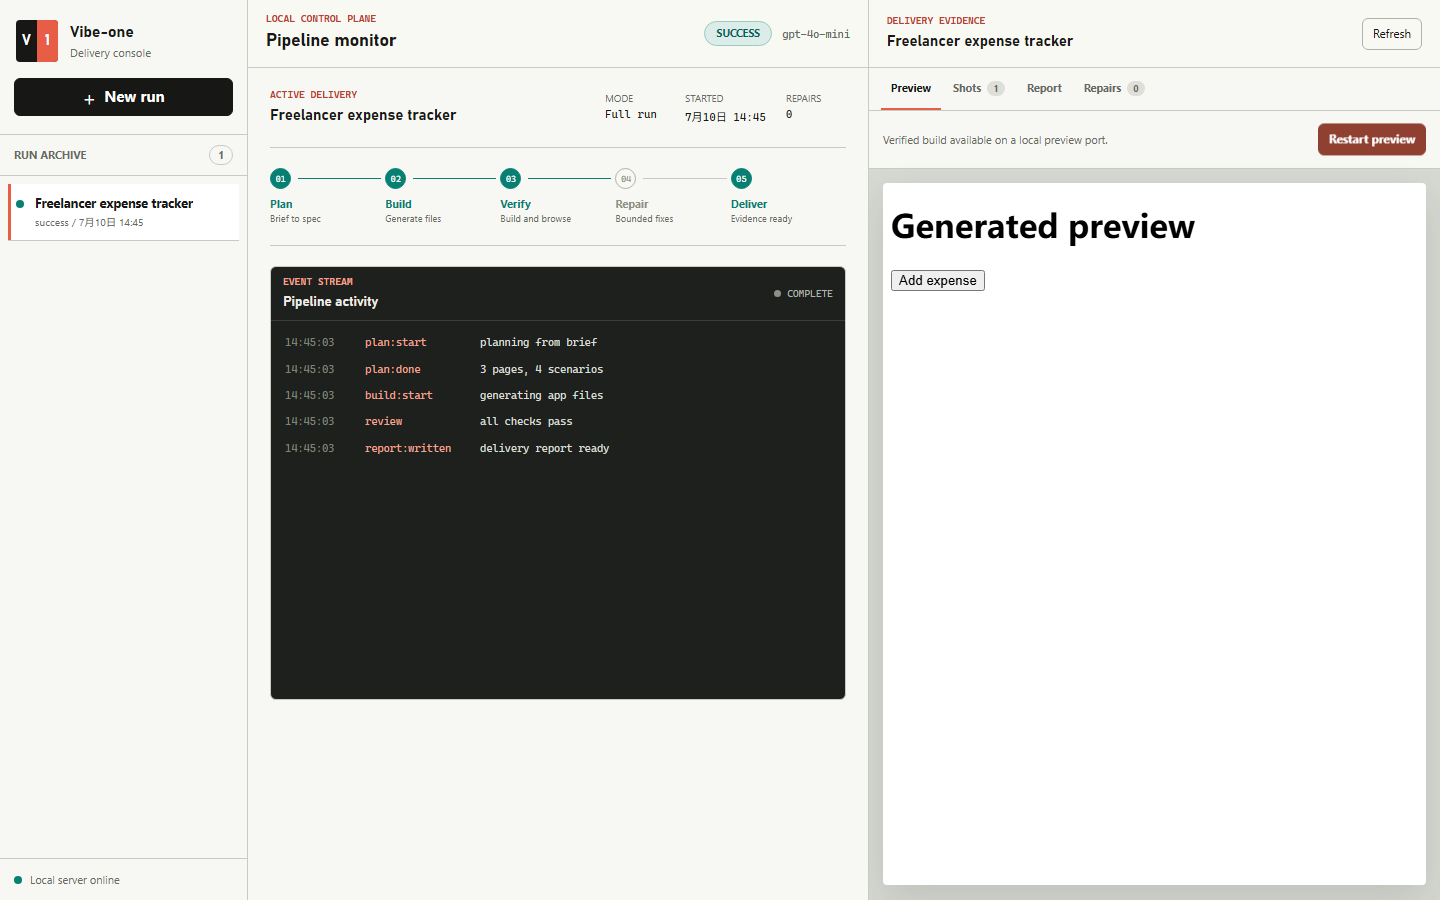
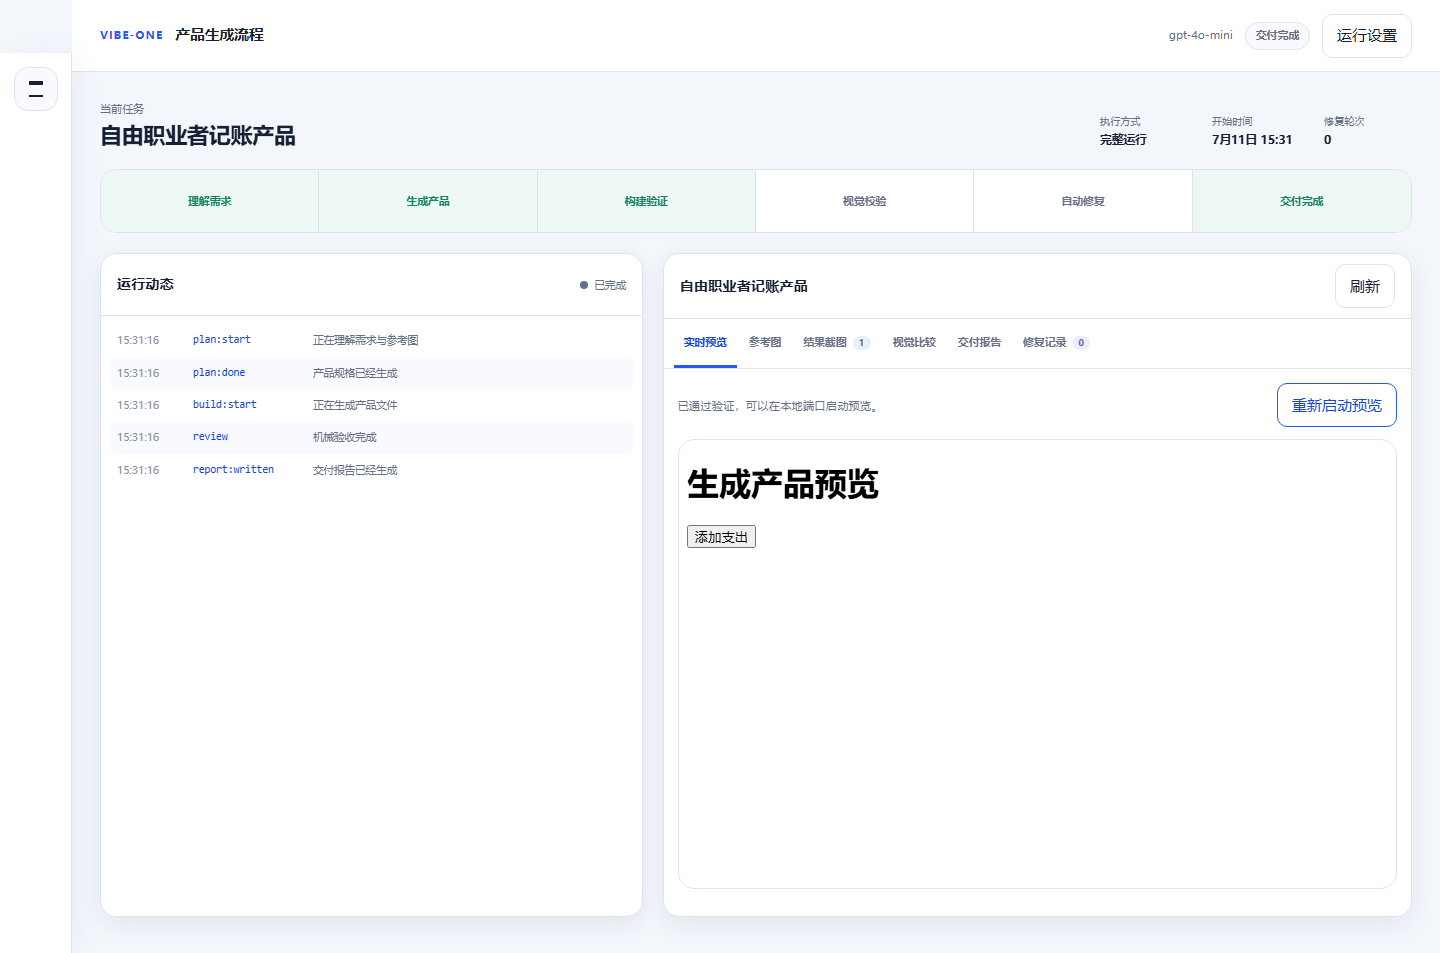
docs: present the Product Lab visual workflow

diff --git a/test/console-e2e.test.js b/test/console-e2e.test.js
@@ -108,7 +108,7 @@ test('browser console submits a reference image and renders live evidence', { sk
 
   const previewServer = http.createServer((_req, res) => {
     res.writeHead(200, { 'content-type': 'text/html; charset=utf-8' });
-    res.end('<!doctype html><html><body><main><h1>Generated preview</h1><button>Add expense</button></main></body></html>');
+    res.end('<!doctype html><html><body><main><h1>生成产品预览</h1><button>添加支出</button></main></body></html>');
   });
   await new Promise((resolve) => previewServer.listen(0, '127.0.0.1', resolve));
   const previewAddress = previewServer.address();
@@ -163,6 +163,7 @@ test('browser console submits a reference image and renders live evidence', { sk
     await page.getByRole('button', { name: '运行设置' }).click({ timeout: 1_000 });
     await page.getByLabel('会话 API Key').fill('stub-secret');
     await page.getByRole('button', { name: '完成' }).click();
+    await page.getByLabel('任务名称').fill('自由职业者记账产品');
     await page.setInputFiles('#reference-input', {
       name: 'home.png',
       mimeType: 'image/png',
@@ -191,7 +192,7 @@ test('browser console submits a reference image and renders live evidence', { sk
     await page.locator('#report-content').filter({ hasText: 'Delivery Report' }).waitFor();
     await page.getByRole('tab', { name: '实时预览' }).click();
     await page.getByRole('button', { name: '启动预览' }).click();
-    await page.frameLocator('#preview-frame').getByText('Generated preview').waitFor();
+    await page.frameLocator('#preview-frame').getByText('生成产品预览').waitFor();
 
     const bodyText = await page.locator('body').innerText();
     assert.equal(bodyText.includes('stub-secret'), false);
@@ -207,6 +208,9 @@ test('browser console submits a reference image and renders live evidence', { sk
     assert.equal(await mobile.evaluate(() => document.documentElement.scrollWidth <= window.innerWidth), true);
     assert.equal(await mobile.locator('#new-run').isVisible(), true);
     assert.equal(await mobile.getByRole('tab', { name: '实时预览' }).isVisible(), true);
+    await mobile.getByRole('button', { name: '收起历史' }).click();
+    await mobile.getByRole('button', { name: '启动预览' }).click();
+    await mobile.frameLocator('#preview-frame').getByText('生成产品预览').waitFor();
     await mobile.screenshot({ path: path.join(artifacts, 'console-mobile.png'), fullPage: true });
   } finally {
     await browser.close();

diff --git a/FRAMEWORK.md b/FRAMEWORK.md
@@ -21,7 +21,7 @@ True hands-off automation requires programmatic model calls. A manual Codex or C
 Minimum viable API setup:
 
 - One OpenAI-compatible chat endpoint.
-- Optional vision-capable model for screenshot input.
+- A vision-capable OpenAI-compatible model when reference screenshots are supplied.
 - Local filesystem write operations controlled by the orchestrator.
 - Local command execution for install, build, test, and screenshot capture.
 - Token and cost tracking from API usage metadata when available.
@@ -46,7 +46,7 @@ The first version should support a single frontend stack and a narrow app type.
 Recommended MVP:
 
 - Target stack: React + Vite or Expo Web.
-- Input type: Markdown product brief first; screenshots second.
+- Input type: text-only, screenshot-only, or combined text and reference screenshots.
 - Output type: static or mock-data mobile-style app.
 - Verification: `npm install`, `npm run build`, local preview, Playwright screenshot.
 - Repair loop: at most two automated fix attempts per run.
@@ -70,7 +70,7 @@ Accepts target material:
 - `input/screenshots/`: optional screenshots for visual guidance.
 - `input/constraints.json`: stack choice, target viewport, max repair rounds, and model config.
 
-The first milestone should work from `brief.md` only. Screenshot understanding can be added after the pipeline is stable.
+Reference inputs accept PNG/JPEG/WebP, up to 4 files, 6 MiB each and 18 MiB total. The console additionally bounds the complete request body to 26 MiB. References are normalized into sanitized files plus metadata before planning.
 
 ### 2. Planner
 
@@ -82,6 +82,7 @@ Reads the input and generates:
 - Data model.
 - Interaction list.
 - Acceptance criteria.
+- Visual direction and explicit page-to-reference mapping when images are present.
 
 Output:
 
@@ -128,20 +129,17 @@ Output:
 
 Checks whether the generated app satisfies the target.
 
-MVP checks:
+Implemented checks:
 
 - Build passes.
 - Preview server starts.
 - Screenshot is non-empty.
 - Expected page text exists.
 - Expected number of pages/routes exists.
+- Reference/output comparison using local SSIM-derived structure and RGB color-histogram scores.
+- A configurable visual threshold (`0.62` by default) with per-page, per-round evidence.
 
-Later checks:
-
-- Screenshot comparison against target.
-- Layout similarity scoring.
-- Color and typography checks.
-- Accessibility checks.
+The threshold is a coarse visual-consistency gate, not pixel-perfect cloning. The model supplies the visual spec and mapping; it does not grade its own output.
 
 ### 6. Fixer
 
@@ -153,6 +151,7 @@ Repair loop rules:
 - Record each failure and patch attempt.
 - Stop instead of looping forever.
 - Do not claim success unless verification passes.
+- Feed failed visual comparison evidence to the visual fixer and retain every bounded repair round.
 
 ### 7. Reporter
 
@@ -279,7 +278,7 @@ The interview bar above is satisfied for the text-brief scope:
 - Re-run verification.
 - Record all attempts.
 
-### Phase 3 - Screenshot Input
+### Phase 3 - Screenshot Input (implemented)
 
 - Accept reference screenshots.
 - Ask vision model or preprocessing step to extract UI structure.
@@ -302,4 +301,4 @@ The interview bar above is satisfied for the text-brief scope:
 
 ## Current Decision
 
-The narrow API-backed text-brief pipeline and bounded repair loop are complete. Keep them as the verified baseline; reference screenshot input and coarse visual comparison are the next Phase 3 milestone.
+The Product Lab baseline supports text-only, screenshot-only, and combined inputs. Multimodal planning produces a structured product/visual spec; local deterministic comparison enforces coarse structure/color consistency; functional and visual repair remain bounded and auditable. Credentials are session-only, public APIs/artifacts omit secrets and base64 payloads, and private absolute input paths are never exposed.

diff --git a/docs/architecture.md b/docs/architecture.md
@@ -3,10 +3,10 @@
 ## Data flow
 
 ```text
-input/brief.md + constraints.json
+brief + normalized references + constraints
         |
         v
-   [Planner] --model--> spec JSON --> SPEC.generated.md / PLAN.generated.md
+   [Planner] --multimodal model--> product + visual spec --> SPEC.generated.md / PLAN.generated.md
         |
         v
    [Builder] --model--> delimited file blocks --> runs/<id>/app/   (safeJoin path jail)
@@ -15,11 +15,11 @@ input/brief.md + constraints.json
    [Runner]  npm install -> npm run build -> vite preview -> Playwright screenshots
         |
         v
-   [Reviewer] mechanical checks (exit codes, shot bytes, page text, page count)
+   [Reviewer] mechanical checks + local SSIM/color-histogram visual gate
         |                                   |
         | pass                              | fail (round < maxRepairRounds)
         v                                   v
-   [Reporter]                          [Fixer] --model--> patched files --> back to Runner
+   [Reporter]                  [functional / visual fixer] --model--> patched files --> back to Runner
 ```
 
 ## Module contracts
@@ -28,11 +28,13 @@ input/brief.md + constraints.json
 | --- | --- | --- | --- |
 | `core/config.js` | targetDir | merged config (constraints > env > defaults) | 0 |
 | `providers/openaiCompatible.js` | system + user prompts | streamed or JSON chat result + usage | 1 per request |
-| `core/planner.js` | brief | spec JSON (pages+mustContain, scenarios) + 2 markdown artifacts | 1 |
+| `core/planner.js` | brief + optional references | structured product/visual spec + markdown artifacts | 1 |
 | `core/builder.js` | brief + spec | fixed scaffold (package.json/vite.config) + model files under `app/` | 1 |
 | `runner/commands.js` | appDir | command records + screenshots + page text + scenario results | 0 |
 | `core/reviewer.js` | runner results + spec | `{ pass, checks[], failed[] }` incl. mustContain + scenarios | 0 |
 | `core/fixer.js` | failure evidence | patched files + diagnosis | 1 per round |
+| `runner/visualCompare.js` | mapped reference + generated screenshot | deterministic SSIM structure, color histogram, combined score | 0 |
+| `core/fixer.js` (visual mode) | failed visual evidence + current source | patched files + visual diagnosis | 1 per visual round |
 | `reporter/deliveryReport.js` | run context + results | `DELIVERY_REPORT.md` | 0 |
 
 ## Local console flow
@@ -58,7 +60,9 @@ browser workspace
 | `console/previewManager.js` | reuse one generated-app preview and stop it on replacement/shutdown |
 | `console/public/` | framework-free responsive browser workspace |
 
-The console calls `runPipeline()` in process. `runContext.logEvent()` persists each event to `events.jsonl` before mirroring it to the job manager, so browser delivery never replaces the durable audit trail.
+The console calls `runPipeline()` in process. It accepts text-only, screenshot-only, or combined input. PNG/JPEG/WebP references are limited to 4 files, 6 MiB each, 18 MiB total; the JSON request body is capped at 26 MiB. `runContext.logEvent()` persists each event to `events.jsonl` before mirroring it to the job manager, so browser delivery never replaces the durable audit trail.
+
+Visual evidence is written to `runs/<id>/visual/comparisons.json`: each round records reference/output mapping, score, structure/color subscores, threshold and pass/fail. The delivery report and repair records retain the bounded fixer trail. The default `0.62` threshold measures coarse visual consistency, not pixel-perfect cloning.
 
 ## Safety boundaries
 
@@ -73,12 +77,11 @@ The console calls `runPipeline()` in process. `runContext.logEvent()` persists e
 - **Gateway resilience**: chat completions stream by default, retry network/429/500/502/503/504 failures within a hard budget, and use a separate 10-minute streaming timeout.
 - **Bounded model output**: the text-brief builder asks for at most 8 files and roughly 12,000 characters so a generated MVP stays inspectable and gateway-friendly.
 - **Loopback-only console**: the HTTP server binds `127.0.0.1` by default and does not expose the control plane to the LAN.
-- **Session-only secret**: browser-entered API keys stay in process memory, are removed from public job objects, and are never written into console inputs or run artifacts.
+- **Session-only secret**: browser-entered API keys stay in process memory, are removed from public job objects, and are never written into console inputs or run artifacts. Uploaded base64 exists only at the bounded request boundary; persisted manifests/public APIs contain metadata and jailed file URLs, not base64 or private absolute paths.
 - **Console artifact jail**: run IDs, reports, screenshots, and preview targets are resolved beneath the configured runs root; screenshot names are additionally jailed beneath each `screenshots/` directory.
 - **Single preview owner**: the console keeps at most one long-lived Vite preview and stops it when another run is opened or the server shuts down.
 
 ## Extension points (post-MVP)
 
-- `providers/`: add vision-capable calls for screenshot input (Phase 3).
-- `reviewer`: add coarse screenshot-vs-reference comparison.
-- `runner`: per-interaction Playwright scripts (click flows) instead of static shots.
+- Add finer typography/spacing analysis without replacing the deterministic gate with model self-grading.
+- Add more generated-app stacks only with equivalent scaffold, dependency, and path controls.

diff --git a/README.md b/README.md
@@ -2,10 +2,10 @@
 
 [![ci](https://github.com/Aschenbath/Vibe-one/actions/workflows/ci.yml/badge.svg)](https://github.com/Aschenbath/Vibe-one/actions/workflows/ci.yml)
 
-Bounded AI delivery pipeline: takes a product brief, generates a spec and a runnable React app, verifies it with real local commands and Playwright scenarios, repairs failures within a bounded loop, and emits an auditable delivery report.
+Bounded AI delivery pipeline: accepts a product brief, reference screenshots, or both; generates a structured product/visual spec and runnable React app; verifies it with local commands, Playwright scenarios, and deterministic visual checks; and retains bounded repair evidence.
 
 ```text
-brief.md -> SPEC.generated.md -> generated app -> build + preview + screenshots -> repair loop -> DELIVERY_REPORT.md
+brief / screenshots -> multimodal plan -> generated app -> build + screenshots -> mechanical + visual gates -> bounded repair -> report
 ```
 
 See `FRAMEWORK.md` for the product boundary and `docs/architecture.md` for module details.
@@ -18,11 +18,11 @@ Vibe-one now includes a browser control plane for the existing pipeline:
 npm run console
 ```
 
-Open the printed loopback URL. The console accepts a product brief, Full Run or Plan Only mode, model settings, and an optional session-only API key. It streams pipeline events, keeps local run history, exposes screenshots and Delivery Reports, and launches successful generated apps in an embedded preview.
+Open the printed loopback URL. Product Lab accepts text-only, screenshot-only, or combined input. References may be PNG, JPEG, or WebP: at most 4 images, 6 MiB each, 18 MiB total, with the complete job request bounded to 26 MiB. It streams pipeline events, keeps local run history, exposes reference/generated/visual-repair evidence, and launches successful generated apps in an embedded preview.
 
 ![Vibe-one local console](docs/screenshots/console-desktop.png)
 
-The browser never persists an API key. A key entered in the page remains only in the current Node process; environment variables are still supported and take over when no session override is present.
+The browser never persists an API key. A key entered in the page remains only in the current Node process; environment variables are still supported and take over when no session override is present. Public job objects and persisted artifacts exclude credentials, uploaded base64 payloads, and private absolute input paths; the HTTP control plane is loopback-only by default.
 
 ## Verified demos
 
@@ -98,9 +98,11 @@ Each real run writes to `runs/<target>-<timestamp>/`:
 | artifact | meaning |
 | --- | --- |
 | `SPEC.generated.md` / `PLAN.generated.md` | planned pages, content checks, and scenarios |
+| `input/references/manifest.json` | sanitized reference metadata; image bytes are stored as files, never base64 |
 | `app/` | generated runnable app |
 | `logs/` | command output and structured `events.jsonl` |
 | `screenshots/` | page and post-interaction captures |
+| `visual/comparisons.json` | per-round local score, structure/color subscores, threshold, mapping, and pass/fail evidence |
 | `DELIVERY_REPORT.md` | commands, checks, repair rounds, usage, and final status |
 
 ## Module map
@@ -117,6 +119,8 @@ src/reporter/   DELIVERY_REPORT.md generation
 ## Design rules
 
 - The reviewer is mechanical: exit codes, screenshot bytes, visible text, per-page `mustContain` fragments, and end-to-end scenarios.
+- Reference-aware planning uses an OpenAI-compatible multimodal request to produce a structured product/visual spec. Scoring is local and deterministic: SSIM-derived structure plus an RGB histogram score, never model self-grading.
+- The default visual threshold is `0.62`: a coarse layout/palette consistency gate, not a pixel-perfect cloning claim.
 - Success is only claimed when every reviewer check passes.
 - The repair loop is bounded by `maxRepairRounds` and records each diagnosis and patched file.
 - Model output cannot replace `package.json`, Vite config, lockfiles, or npm config; dependencies are whitelisted and install uses `--ignore-scripts`.
@@ -125,7 +129,7 @@ src/reporter/   DELIVERY_REPORT.md generation
 
 ## Status
 
-- **Engine:** the text-brief pipeline, bounded repair loop, two real demos, failed-then-repaired evidence, reports, and generated-app screenshots are complete.
-- **Console:** the local browser workspace supports brief entry, model configuration, session-only credentials, live events, persisted history, screenshots, reports, and generated-app previews.
+- **Engine:** text-only, screenshot-only, and combined planning; bounded functional repair; deterministic visual comparison; bounded visual repair; reports; and generated-app evidence are implemented.
+- **Console:** the all-Chinese Product Lab workspace supports reference upload, model configuration, session-only credentials, live events, persisted history, reference/result/visual evidence, reports, and generated-app previews.
 
-Screenshot input and visual similarity scoring remain the Phase 3 boundary defined in `FRAMEWORK.md`. Remote hosting, authentication, concurrent jobs, durable credentials, and mid-command cancellation are not part of the local console.
+Remote hosting, authentication, concurrent jobs, durable credentials, and mid-command cancellation are not part of the local console. The visual gate is intentionally coarse and does not promise pixel-perfect cloning.

diff --git a/docs/HANDOFF.md b/docs/HANDOFF.md
@@ -1,6 +1,6 @@
 # Vibe-one Handoff (Fable5 -> Codex)
 
-Status: **completed on 2026-07-10**.
+Status: **Product Lab visual-input phase completed on 2026-07-11**.
 
 The original handoff asked Codex to capture a successful real run, prove a second demo, retain one failed-then-repaired report, and add screenshots to the repository. All four requirements now have committed evidence.
 
@@ -38,4 +38,8 @@ Both runs used `gpt-5.6-sol` through a configured OpenAI-compatible endpoint. Th
 
 ## Remaining boundary
 
-No Phase 1/2 handoff item remains. The next product phase is Phase 3: reference screenshot input and coarse visual comparison. That work is intentionally outside this completed handoff and should preserve the safety and evidence contracts above.
+The local Product Lab now accepts text-only, screenshot-only, and combined input. PNG/JPEG/WebP references are bounded to 4 files, 6 MiB each and 18 MiB total; the console request body is capped at 26 MiB. An OpenAI-compatible multimodal planner produces a structured product/visual spec and page mapping. Generated screenshots then pass through deterministic local SSIM structure and RGB histogram scoring, followed by bounded visual repair when needed. The default `0.62` threshold means coarse visual consistency, not pixel-perfect cloning.
+
+Evidence is available in the Product Lab reference, screenshot, visual-comparison and repair tabs, and on disk under `runs/<id>/input/references/`, `runs/<id>/screenshots/`, `runs/<id>/visual/comparisons.json`, and `runs/<id>/DELIVERY_REPORT.md`.
+
+Credentials remain session-only. Public job data and persisted artifacts do not expose API keys, uploaded base64, or private absolute input paths. Remote hosting/authentication, concurrent jobs, durable credentials, and mid-command cancellation remain outside the local-console boundary.

diff --git a/history.md b/history.md
@@ -7,6 +7,10 @@
 - 23:5x: Fable5 scaffolded the Phase 1 MVP framework code (commit `1d08d8f`, 24 files): `src/cli` entry, `src/core` (config/runContext/pipeline/planner/builder/reviewer/fixer), single OpenAI-compatible provider in `src/providers`, `src/runner` (spawn+capture, vite preview wait, Playwright screenshots), `src/reporter` delivery report, two example briefs (expense-mobile, notes-mobile), docs (architecture, interview-positioning), and 5 offline unit tests (all passing, `npm test`). Safety contracts in place: `safeJoin` path jail for model-written files, bounded repair rounds, mechanical-only reviewer, per-command timeouts, token usage accounting. Env contract: `VIBE_ONE_API_KEY` / `VIBE_ONE_BASE_URL` / `VIBE_ONE_MODEL`. Not yet done: real API run (needs key), `npm install` of playwright, remote repo (git initialized locally on `main`, no origin yet).
 - 23:49:46: Codex reviewed Fable5's Phase 1 scaffold against the Vibe-one framework. Verified `origin` now points to `https://github.com/Aschenbath/Vibe-one.git`, `npm test` passes 5/5 offline tests, and UTF-8 Chinese docs/examples render correctly when read with explicit UTF-8. Review conclusion: the scaffold direction is good but not interview-ready yet; top gaps are unsafe execution of model-generated `package.json` scripts during install/build, shallow reviewer checks that do not validate generated acceptance criteria or interactions, fixed preview/run-directory assumptions, and untracked `package-lock.json`. No real API pipeline run was performed.
 
+## 2026-07-11
+
+- 15:28:15 +08:00: Completed Task 14 documentation and Product Lab UI evidence: aligned README/FRAMEWORK/architecture/HANDOFF with text-only, screenshot-only, and combined input; PNG/JPEG/WebP limits (4 files, 6 MiB each, 18 MiB total; 26 MiB console request); OpenAI-compatible multimodal planning; structured product/visual spec; deterministic local SSIM + color-histogram gate; bounded visual repair; coarse default threshold `0.62`; and session-only credential/base64/private-path boundaries. Updated the deterministic E2E screenshot fixture to use a Chinese task/preview and populated desktop/mobile preview states, then replaced screenshots from 1440×900 and 390×844 viewports; final coordinated image inspection found no clipping, overlap, empty preview, English fixture, or narrow mobile Flow. Fresh verification: `npm test` 59 total / 49 pass / 10 opt-in skips; console E2E 8/8; `VIBE_ONE_E2E=1 npm test` 59 total / 53 pass / 6 console skips; four syntax checks and `git diff --check` passed; the required secret/base64/private-endpoint scan had no matches. Commit message pending: `docs: present the Product Lab visual workflow`. Remaining boundaries: no pixel-perfect claim, remote hosting/auth, concurrent jobs, durable credentials, or mid-command cancellation.
+
 ## 2026-07-10
 
 - 19:29:36: Completed and pushed the implementation plan for the approved Product Lab visual-input phase: `docs/superpowers/plans/2026-07-10-product-lab-visual-input.md` (15 TDD tasks across trusted reference ingestion, multimodal planning, deterministic visual comparison/repair, Chinese Focus -> Flow console, evidence/docs/handoff), commit `c3cf276`. During plan work, diagnosed the repository's long-running Linux CI failures from real Actions evidence: Node 20 treated the quoted `test/*.test.js` glob as a literal path, and POSIX `path.isAbsolute()` treated `C:\Windows\evil.js` as relative. Added a Node-20-compatible explicit test command plus regression contract (`cc9ded8`) and cross-platform absolute-path detection using both `path.posix` and `path.win32` (`5d718fa`). Verification: Node 20 and Node 22 each pass 32 tests with 3 opt-in skips; GitHub Actions runs for `5d718fa` and `c3cf276` both completed successfully. The Actions v4 Node-20 deprecation annotation remains a non-blocking warning, not a test failure.